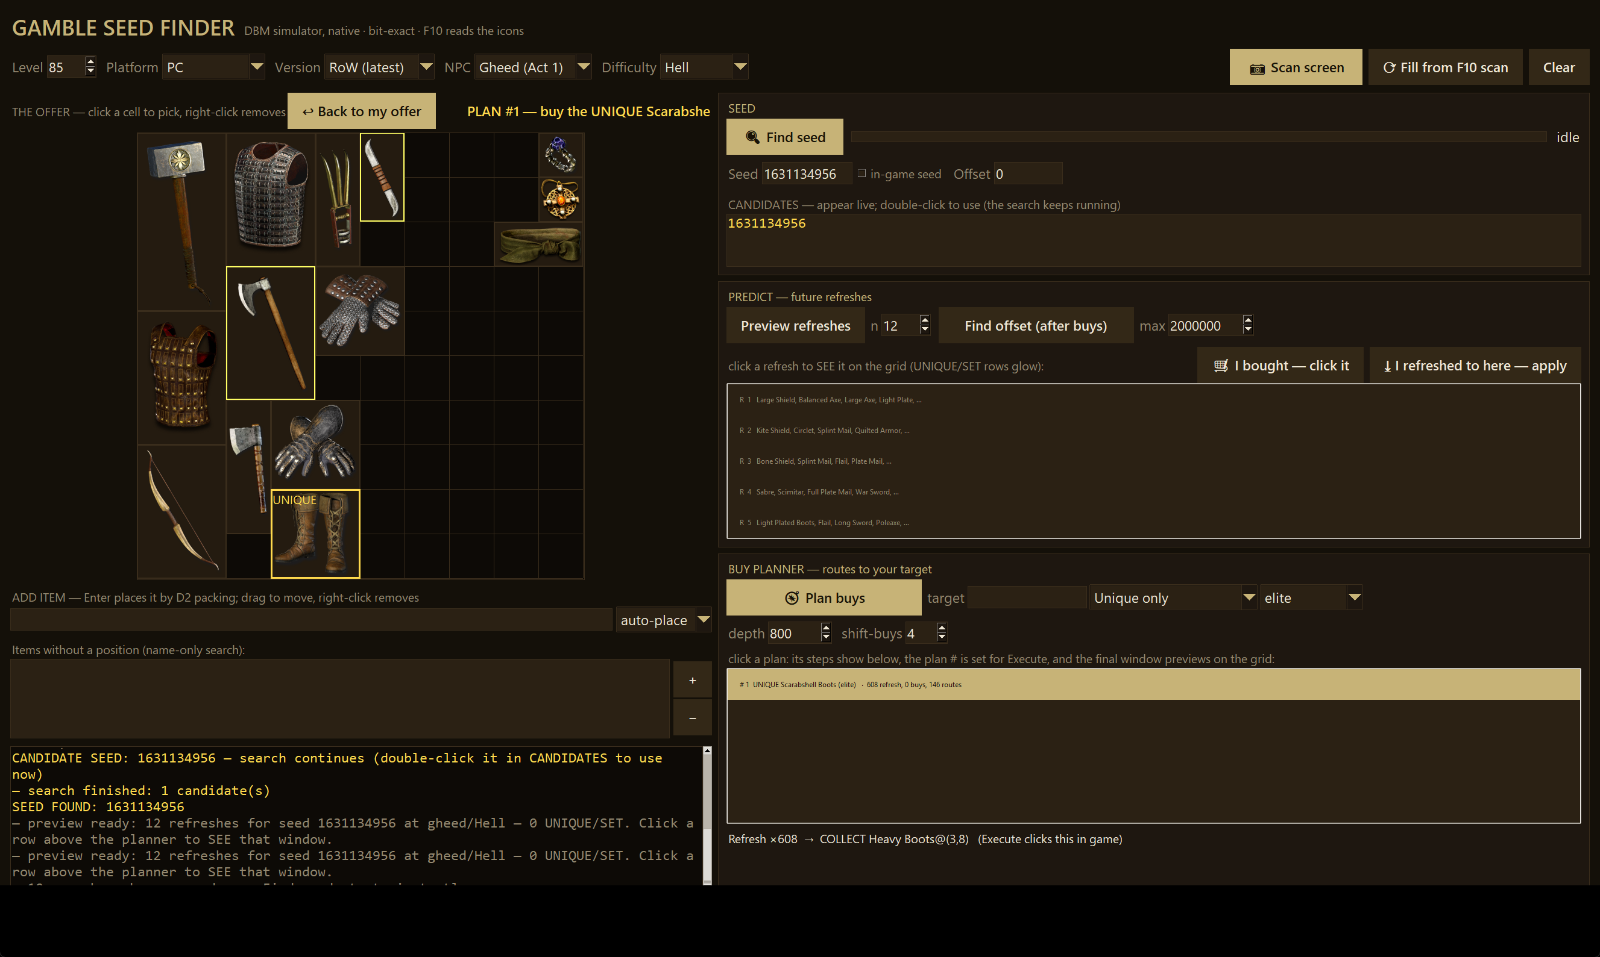
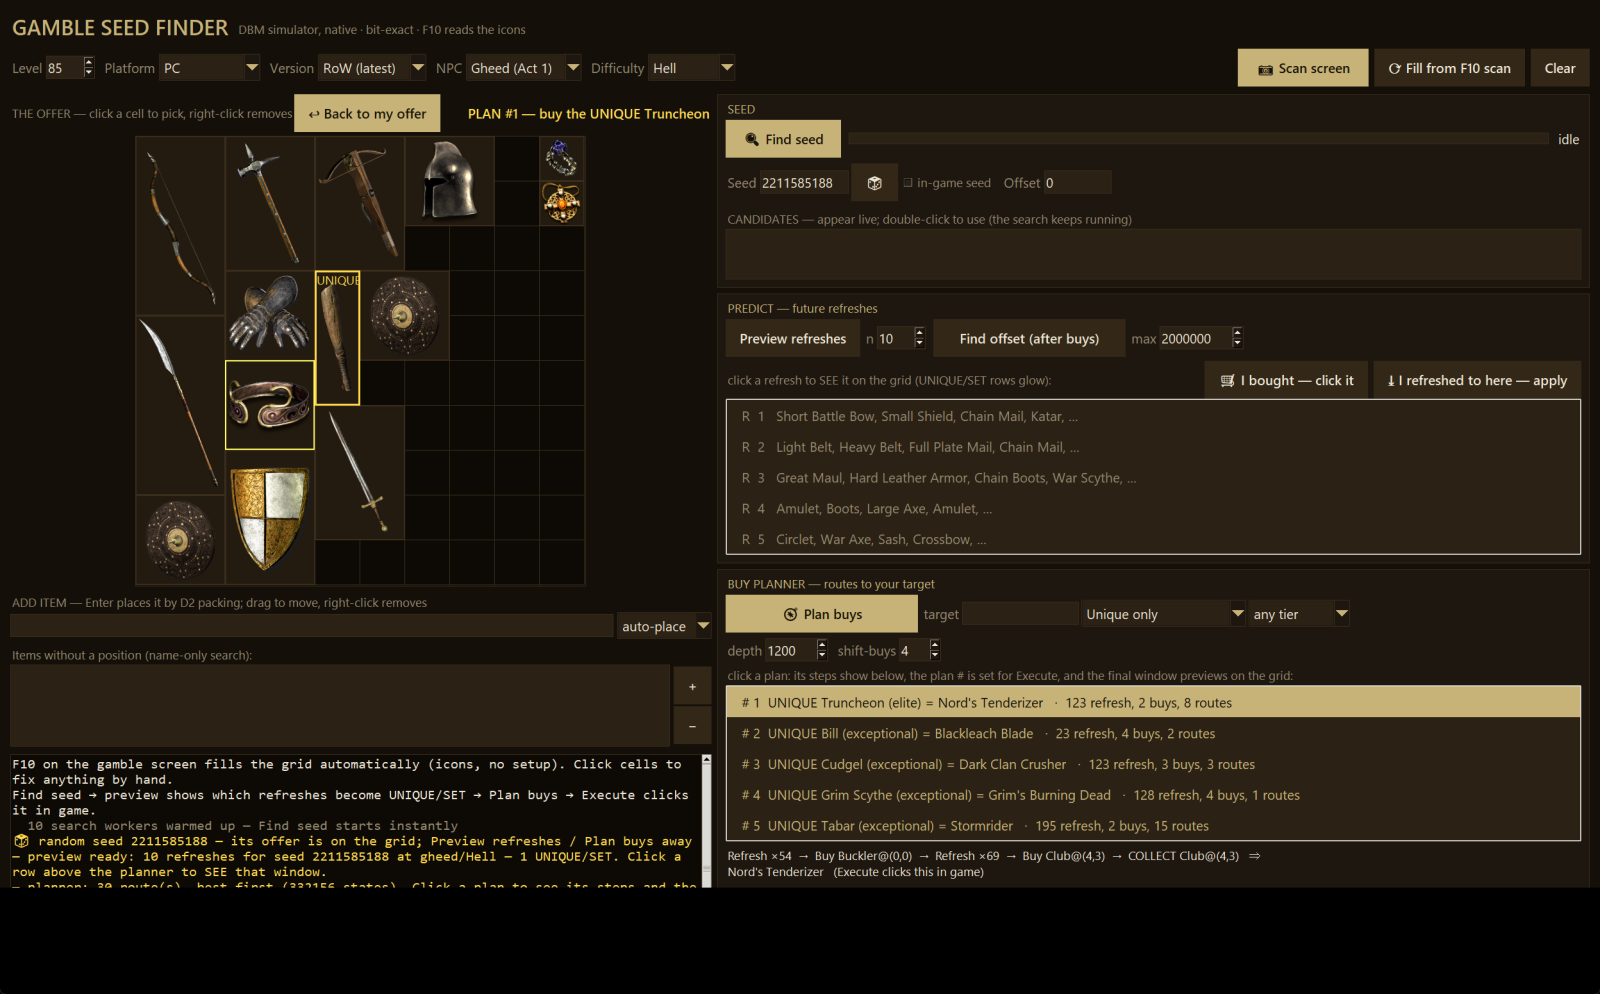
Docs: season goals, self-update, settings/health screenshots; refreshed Seed Finder shot with the dice roll and predicted item names

diff --git a/README.md b/README.md
@@ -94,6 +94,29 @@ missing) and what that disables. "Save & Restart" applies everything.
 The standalone exe also hides its console into the tray and adds itself
 to the Start Menu on first run.
 
+<p align="center">
+  <img src="docs/img/settings.png" width="760"
+       alt="Settings window with the health panel on top">
+</p>
+
+**Health check** in the tray opens the same what-is-missing report as a
+standalone window:
+
+<p align="center">
+  <img src="docs/img/health.png" width="420"
+       alt="Health report window">
+</p>
+
+The tray also has **Check for updates** (plus an automatic check on
+start, `auto_update` in the config): when a new GitHub release exists,
+one click downloads it and swaps the build in place — your config,
+calibration and downloaded assets survive.
+
+<p align="center">
+  <img src="docs/img/update.png" width="560"
+       alt="Update dialog offering the new release">
+</p>
+
 Everything the UI edits is plain `config.yaml`, editable by hand too:
 
 - `config.yaml` — hotkeys, **rules preset**, display time, roll ranges
@@ -135,10 +158,18 @@ anywhere else closes it.
 
 ## Season goals (runeword tracker)
 
+<p align="center">
+  <img src="docs/img/goals.png" width="620"
+       alt="Season Goals window: runeword checklists with rune counters">
+</p>
+
 Tray → **Season goals**: pick the runewords you are building this ladder
-(Stealth, Lore, Insight, Spirit… seeded by default) and tick off the
-runes you own with the +/− counters. The verdict popup on a scanned rune
-shows live progress — "goal Stealth: missing Eth", or "🏁 ALL RUNES
+(Stealth, Lore, Insight, Spirit… seeded by default). Fill the rune
+counters either with the **📷 Scan runes tab** button — open the stash
+RUNES tab in game, and one screenshot sets every counter (a one-time
+3-point grid calibration: hover El, the last cell of the first row, and
+Zod) — or by hand with the +/− chips. The verdict popup on a scanned
+rune shows live progress — "goal Stealth: missing Eth", or "🏁 ALL RUNES
 READY — make it!" when the last one is in place. The "I made it" button
 spends the runes from the pool. State lives in `season_goals.json`
 (local, never committed).
@@ -163,10 +194,12 @@ servers and no simulator can predict it)*
        alt="Gamble Seed Finder: offer grid, found seed, refresh forecast, buy plan">
 </p>
 
-*A live session: the offer filled itself from the F10 icon scan, "Find
-seed" swept all 2³² seeds and found it, the forecast lists upcoming
-refreshes, and the planner routed to a UNIQUE — the glowing slot on the
-grid is where it will sit when you buy it.*
+*A live session: the offer is on the grid (the 🎲 button rolls a random
+seed to explore without scanning anything), the forecast lists upcoming
+refreshes, and the planner routed to UNIQUEs — each plan names the exact
+item it produces ("= Sandstorm Trek", or "1 of N" for jewelry where the
+game rolls among candidates); the glowing slot is where it will sit when
+you buy it.*
 
 - **F10** on the gamble screen: reads the whole offer and copies the list
   to the clipboard. In **resurrected graphics** the gamble window shows
